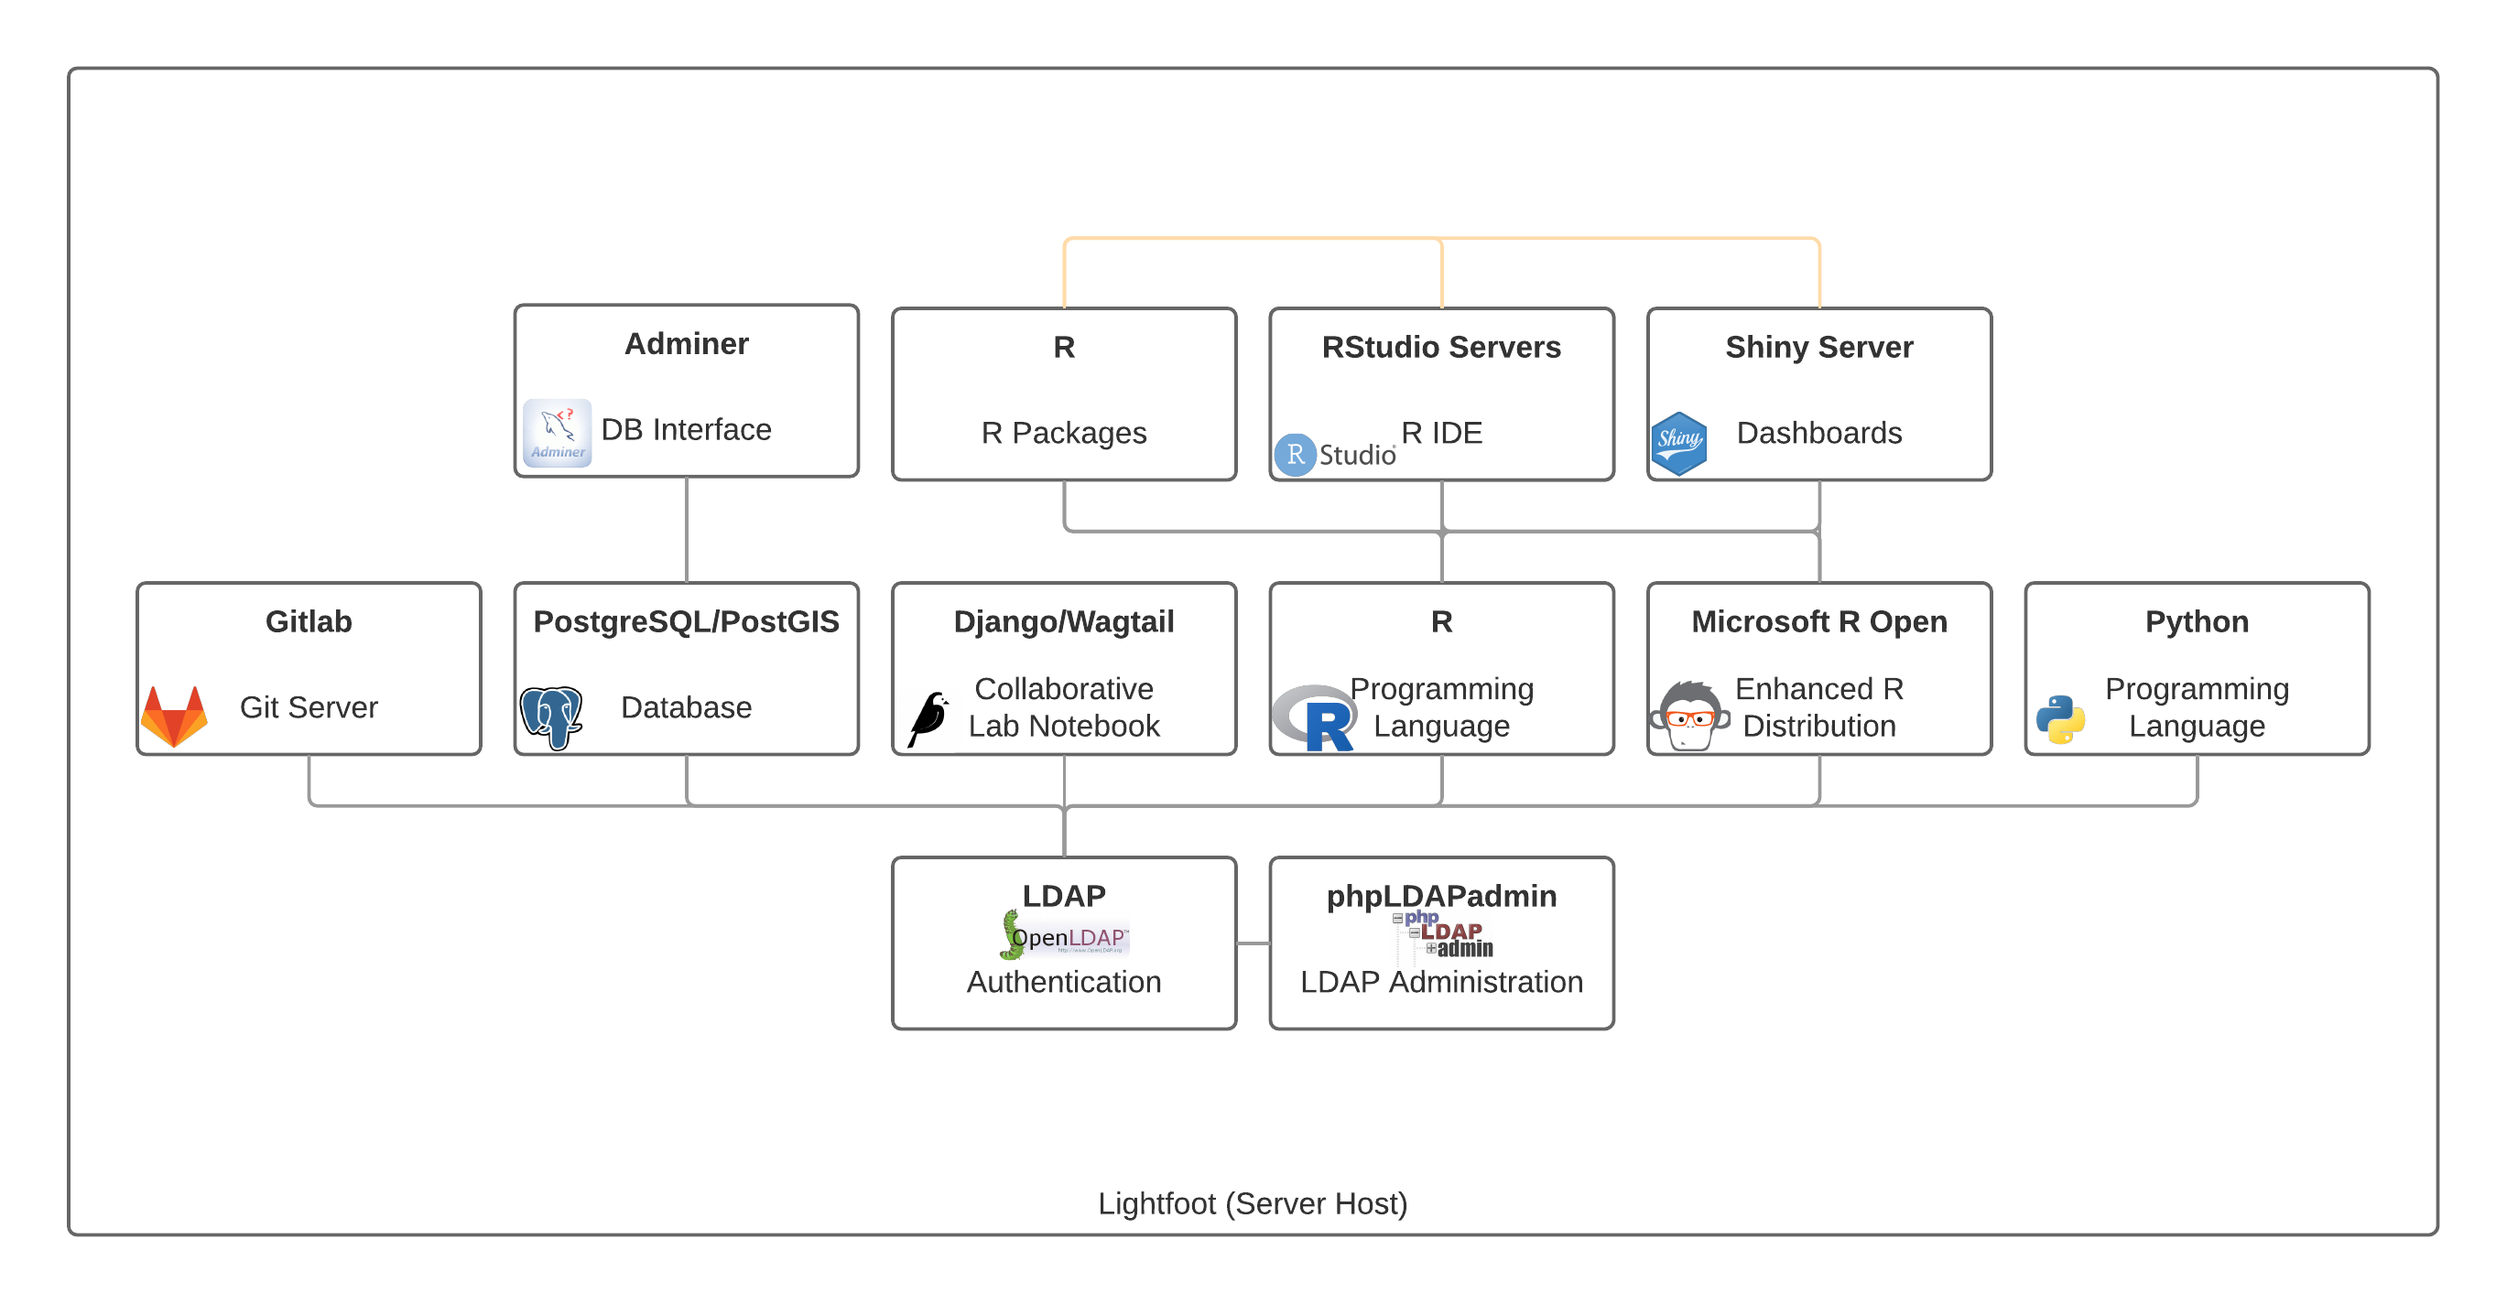
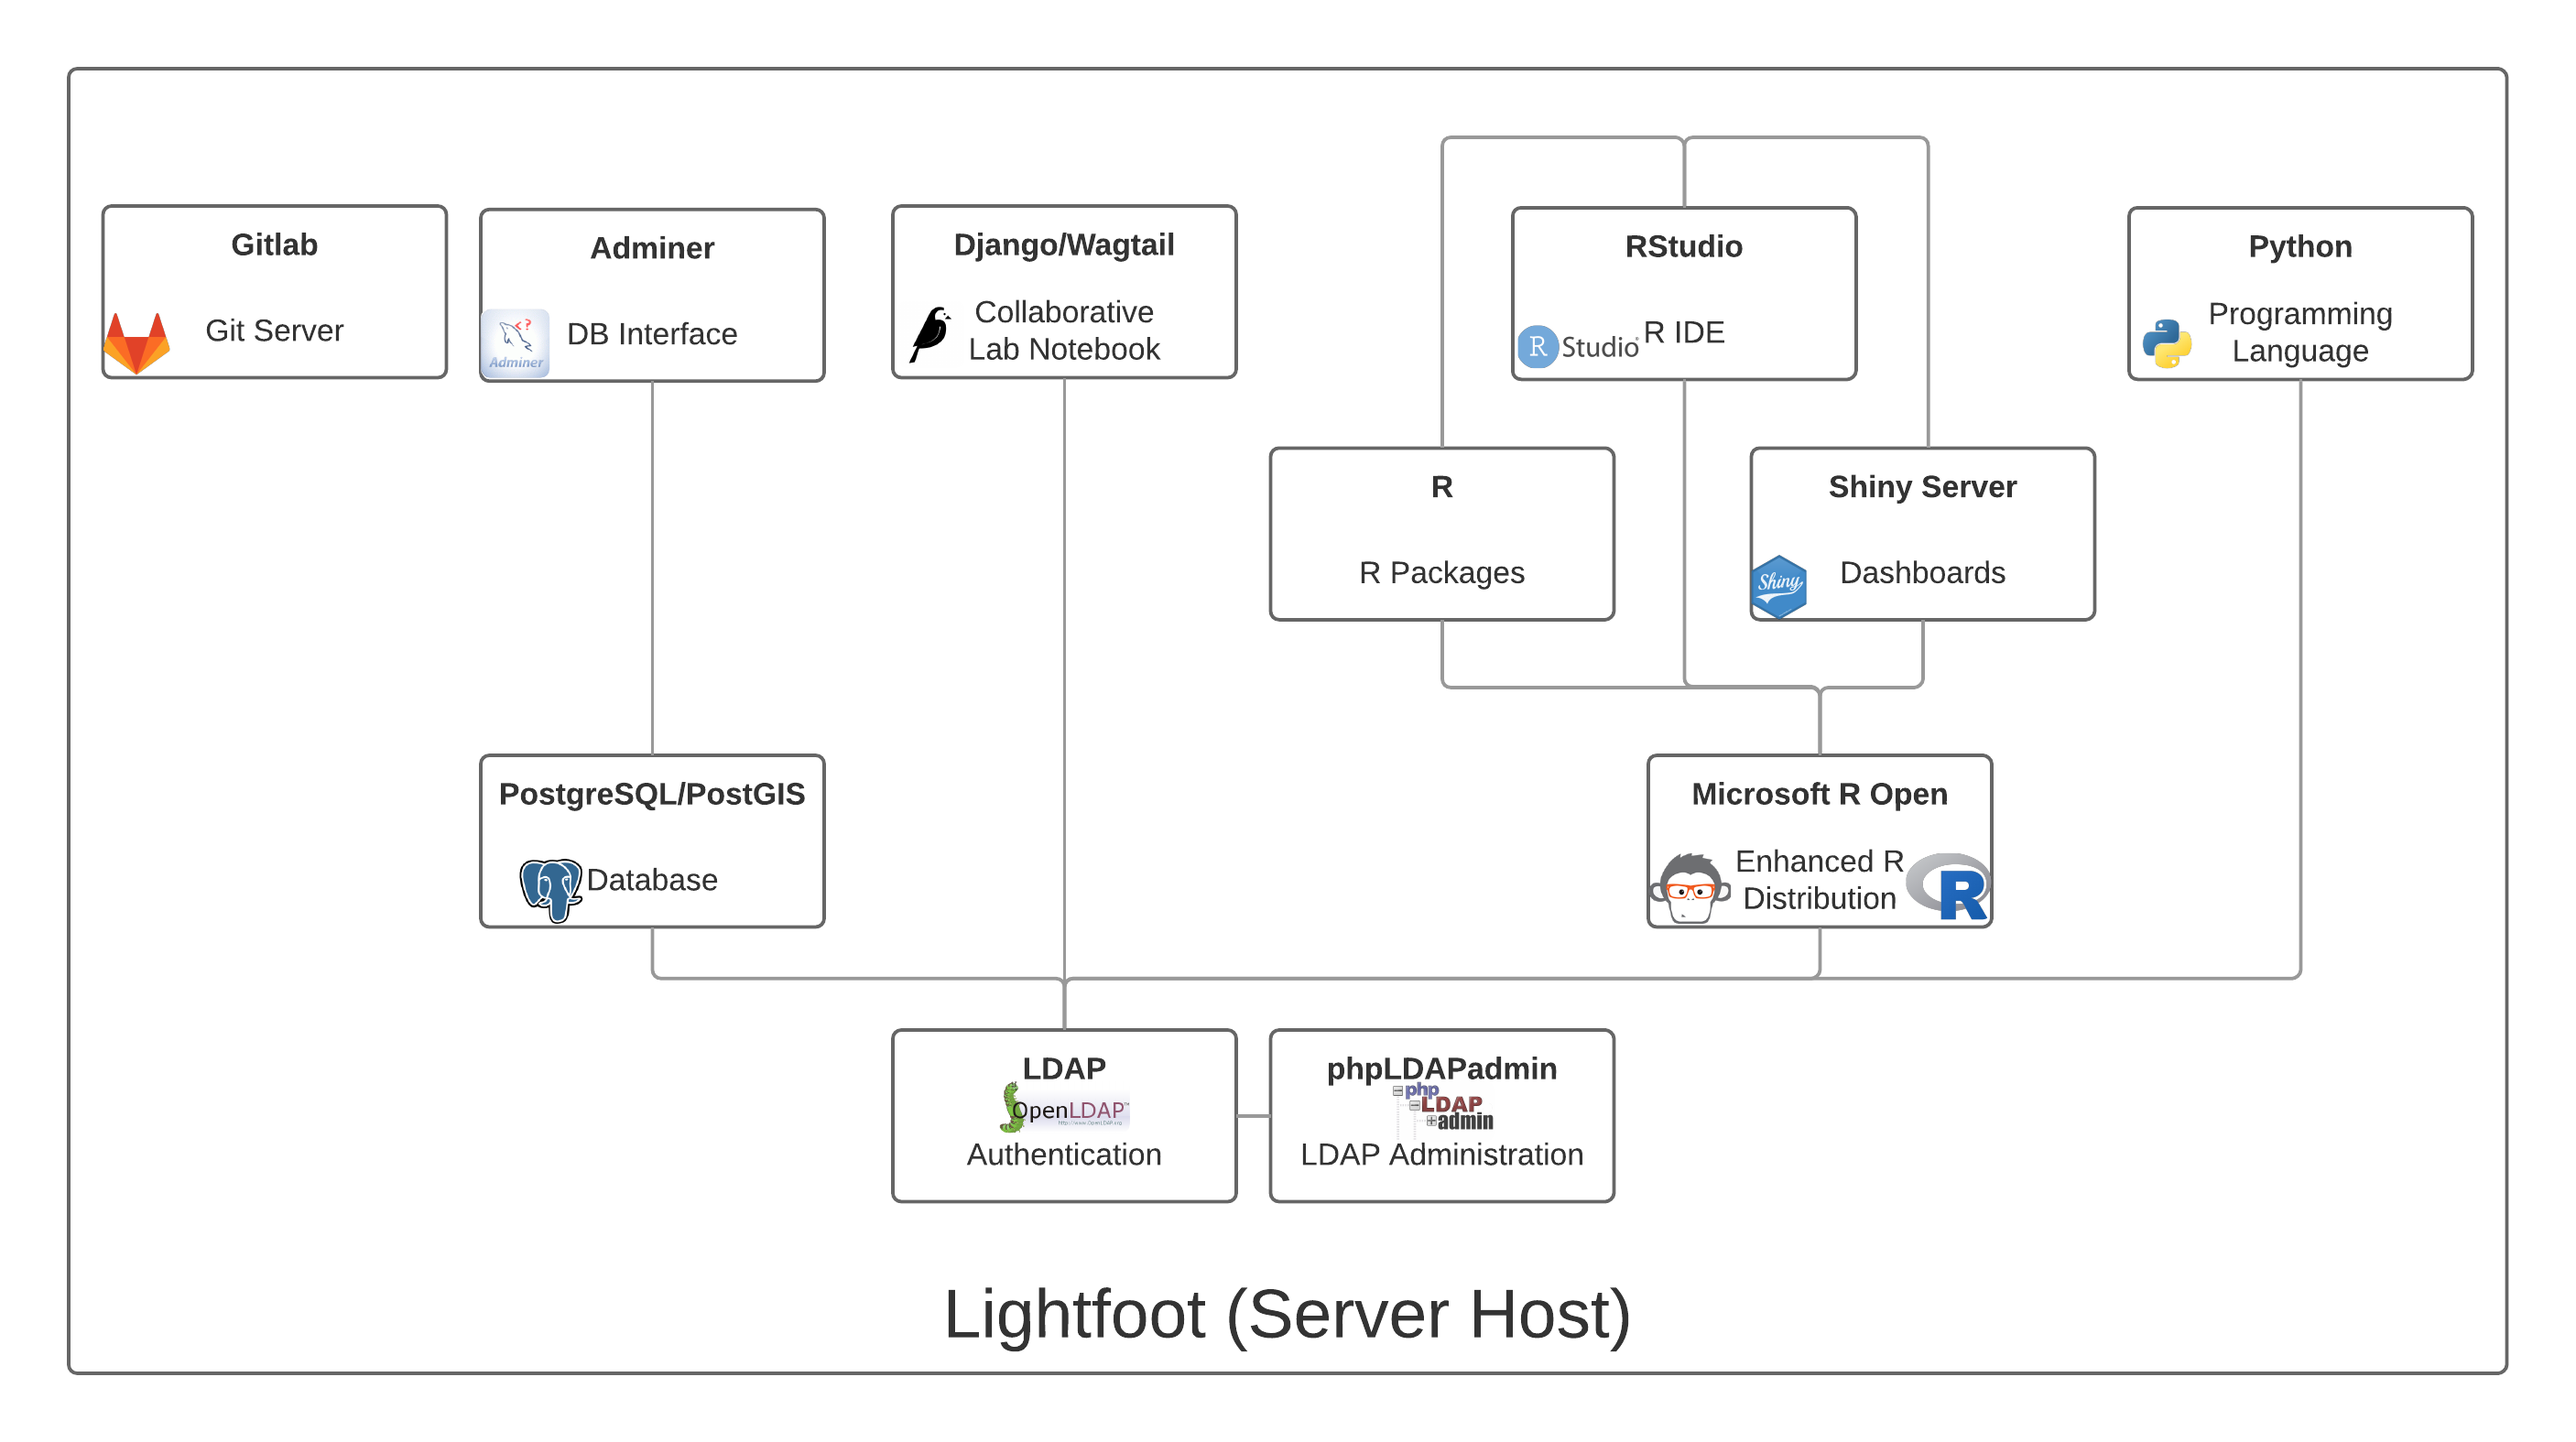
update infrastructure figures

diff --git a/docs/components.html b/docs/components.html
@@ -248,9 +248,9 @@ A brief history of how we settled on docker and why is in this blog post on <a h
 You can think of each ‘container’ as an ‘application’ just like one you are running on your laptop.
 But the behvaior of each ‘container’ is more like a separate server you connect to.</p>
 <div class="figure" style="text-align: center"><span id="fig:docker-lightfoot"></span>
-<img src="figs/sdal_docker_lightfoot.png" alt="The Docker infrastructure used in SDAL" width="100%" />
+<img src="figs/sdal_docker_lightfoot.png" alt="The Docker infrastructure used in SDAL. The containers on the top row are the parts of the system lab members will be connecting to and working on." width="100%" />
 <p class="caption">
-Figure 1.1: The Docker infrastructure used in SDAL
+Figure 1.1: The Docker infrastructure used in SDAL. The containers on the top row are the parts of the system lab members will be connecting to and working on.
 </p>
 </div>
 <p>The primary conatiners you will be using are the RStudio, Adminer, and Django/Wagtail containers.

diff --git a/docs/build-details.html b/docs/build-details.html
@@ -242,7 +242,7 @@ code span.wa { color: #60a0b0; font-weight: bold; font-style: italic; } /* Warni
 <div id="build-details" class="section level1 unnumbered">
 <h1>Build Details</h1>
 <div class="sourceCode" id="cb9"><pre class="sourceCode r"><code class="sourceCode r"><a class="sourceLine" id="cb9-1" data-line-number="1"><span class="kw">Sys.time</span>()</a></code></pre></div>
-<pre><code>## [1] &quot;2018-05-25 15:06:21 EDT&quot;</code></pre>
+<pre><code>## [1] &quot;2018-05-25 15:52:42 EDT&quot;</code></pre>
 <div class="sourceCode" id="cb11"><pre class="sourceCode r"><code class="sourceCode r"><a class="sourceLine" id="cb11-1" data-line-number="1"><span class="kw">sessionInfo</span>()</a></code></pre></div>
 <pre><code>## R version 3.5.0 (2018-04-23)
 ## Platform: x86_64-pc-linux-gnu (64-bit)

diff --git a/docs/01-infrastructure.md b/docs/01-infrastructure.md
@@ -14,8 +14,8 @@ You can think of each 'container' as an 'application' just like one you are runn
 But the behvaior of each 'container' is more like a separate server you connect to.
 
 <div class="figure" style="text-align: center">
-<img src="./figs/sdal_docker_lightfoot.png" alt="The Docker infrastructure used in SDAL" width="100%" />
-<p class="caption">(\#fig:docker-lightfoot)The Docker infrastructure used in SDAL</p>
+<img src="./figs/sdal_docker_lightfoot.png" alt="The Docker infrastructure used in SDAL. The containers on the top row are the parts of the system lab members will be connecting to and working on." width="100%" />
+<p class="caption">(\#fig:docker-lightfoot)The Docker infrastructure used in SDAL. The containers on the top row are the parts of the system lab members will be connecting to and working on.</p>
 </div>
 
 The primary conatiners you will be using are the RStudio, Adminer, and Django/Wagtail containers.

diff --git a/docs/88-session_info.md b/docs/88-session_info.md
@@ -6,7 +6,7 @@ Sys.time()
 ```
 
 ```
-## [1] "2018-05-25 15:06:21 EDT"
+## [1] "2018-05-25 15:52:42 EDT"
 ```
 
 
